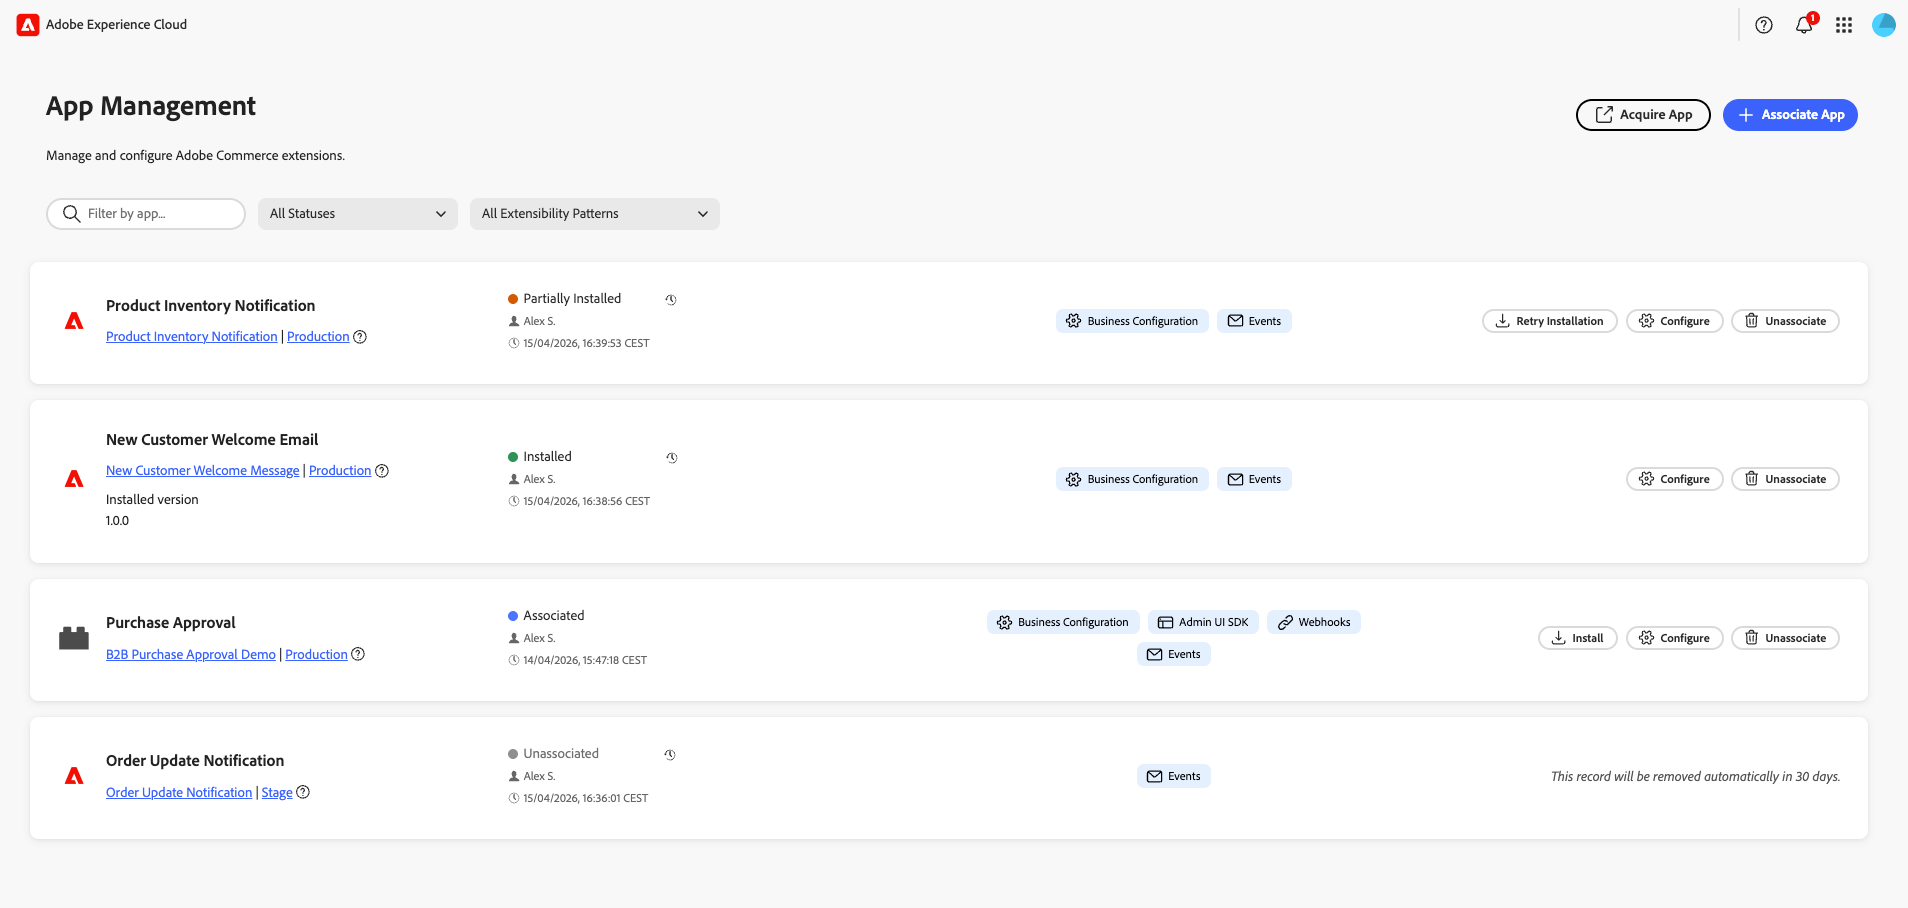
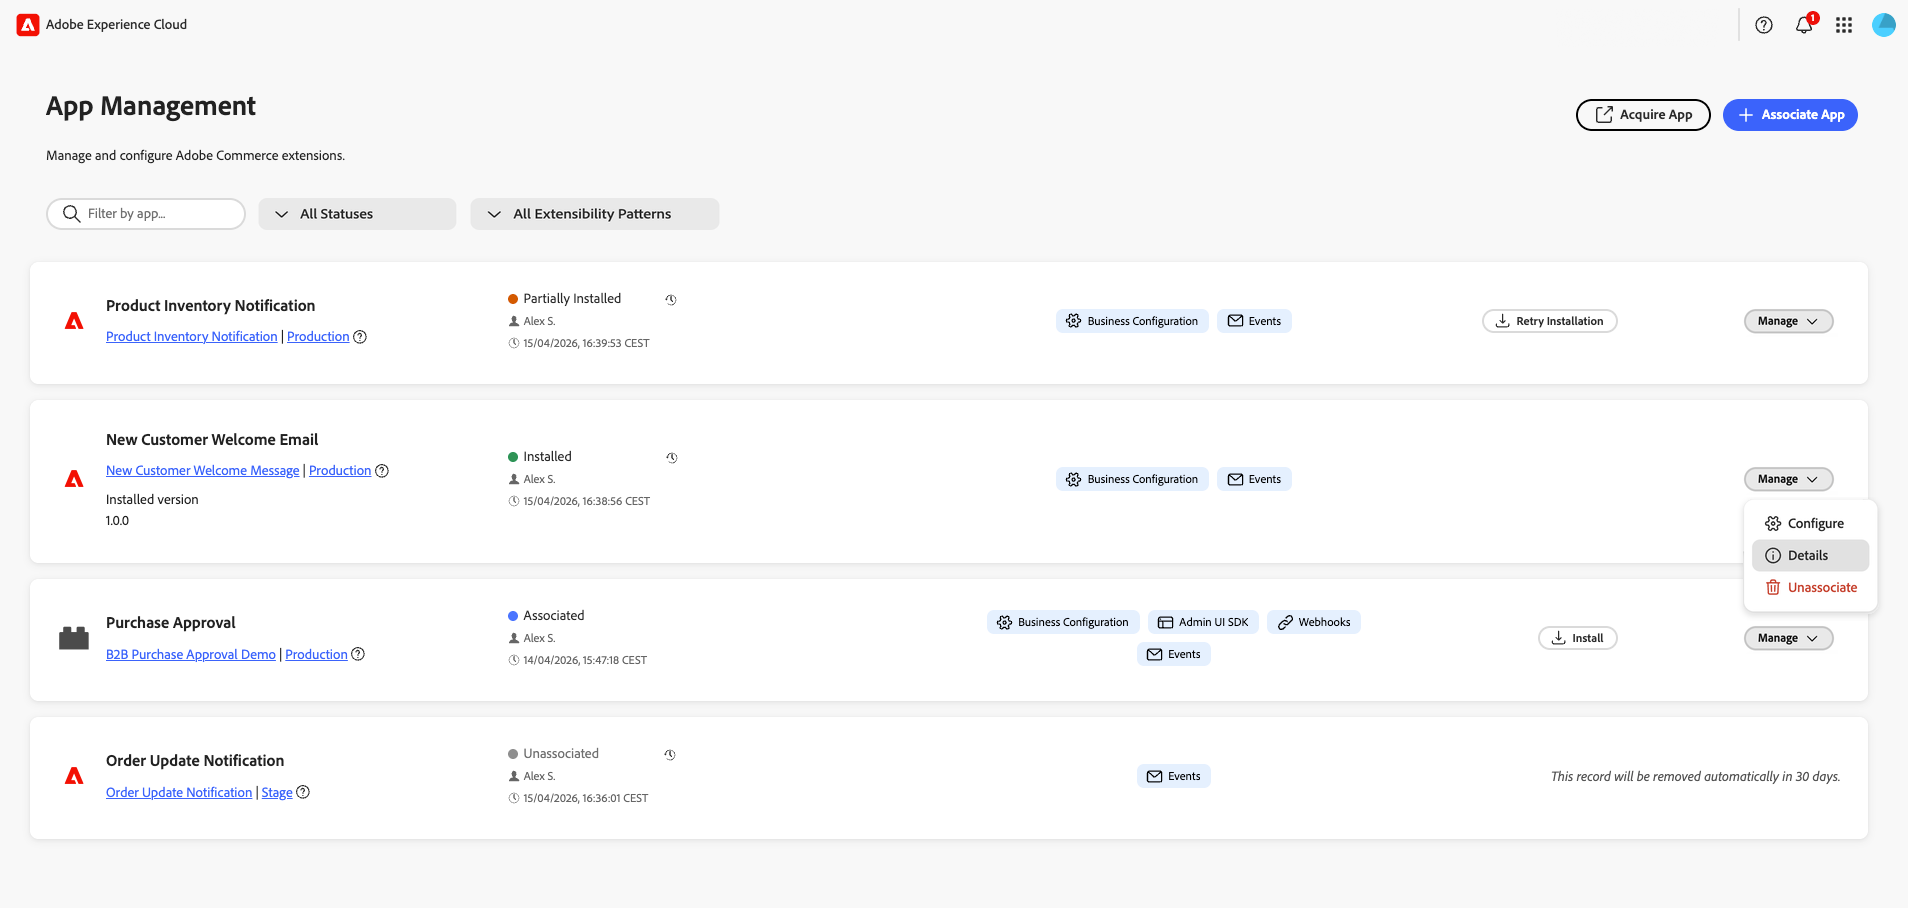
Aligns the merchant-facing App Management documentation with the installation, upgrade, and UI changes documented in AdobeDocs/commerce-extensibility#619. (#855)

diff --git a/help/app-management/manage-app.md b/help/app-management/manage-app.md
@@ -1,6 +1,6 @@
 ---
 title: Manage your app
-description: Associate, configure, and unassociate App Builder applications with your Commerce instance.
+description: Associate, install, configure, upgrade, and unassociate App Builder applications with your Commerce instance.
 feature: App Builder, Extensibility, Integration
 product_v2:
   - id: eadea719-cf89-469b-a6fd-a236a7138047
@@ -22,7 +22,7 @@ role_v2:
 
 # Manage your app
 
-An App Manager associates an App Builder application with their Commerce instance. Configuration forms are rendered dynamically based on the app's schema, so no custom Admin UI development is required. App manager configures settings through forms that Commerce generates automatically.
+Use [!DNL App Management] to associate, install, configure, upgrade, and unassociate App Builder applications with your Commerce instance. Configuration forms are generated from each app's schema, so you can manage settings without custom Admin UI development.
 
 ![App management](assets/app-management-view.png){width="500" zoomable="yes"}
 
@@ -32,22 +32,33 @@ Under **[!UICONTROL Apps]** > **[!UICONTROL App Management]**, each application 
 
 | Control | Description |
 | --- | --- |
-| **Filter by app…** | Search by application name. |
-| **Status** | Limit cards by lifecycle state. **All Statuses** shows every app; other values include **Associated**, **Installed**, **Partially Installed**, and **Unassociated**. The status on each card matches the colored indicator in the list. |
-| **Extensibility patterns** | Limit cards by the capabilities the app uses. **All Extensibility Patterns** shows every app; other values align with the badges on each card, such as **Business Configuration**, **Admin UI SDK**, **Webhooks**, and **Events**. |
+| **[!UICONTROL Filter by app...]** | Search by application name. |
+| **[!UICONTROL Status]** | Limit cards by lifecycle state. **[!UICONTROL All Statuses]** shows every app; other values include **[!UICONTROL Associated]**, **[!UICONTROL Installed]**, **[!UICONTROL Partially Installed]**, and **[!UICONTROL Unassociated]**. The status on each card matches the colored indicator in the list. |
+| **[!UICONTROL Extensibility patterns]** | Limit cards by the capabilities the app uses. **[!UICONTROL All Extensibility Patterns]** shows every app; other values align with the badges on each card, such as **[!UICONTROL Business Configuration]**, **[!UICONTROL Admin UI SDK]**, **[!UICONTROL Webhooks]**, and **[!UICONTROL Events]**. |
 
-Search text and both dropdowns apply together (logical AND). To display the full list again, set **Status** and **Extensibility patterns** back to their **All …** options, and clear the search field.
+The search field and both filters apply together. To display the full list again, clear the search field and select **[!UICONTROL All Statuses]** and **[!UICONTROL All Extensibility Patterns]**.
+
+### Review application details
+
+On the application's card, select **[!UICONTROL Manage]** > **[!UICONTROL Details]** to review its name, description, and version. The dialog provides two tabs:
+
+* **[!UICONTROL Details]** lists the application's business use cases, including events and custom installation steps. Review the labels and descriptions to understand what the application adds to Commerce.
+* **[!UICONTROL App config]** displays the application's configuration as JSON for inspection.
+
+![Details tab showing the application's business use cases](assets/application-details.png){width="600" zoomable="yes"}
+
+![App config tab displaying the application's JSON configuration](assets/app-config.png){width="600" zoomable="yes"}
 
 ## Acquire App
 
-**[!UICONTROL Acquire App]** opens a new browser tab (or a separate browser view) to [Adobe Exchange](https://exchange.adobe.com/experiencecloud){target="_blank"}, where you can discover Commerce-related marketplace listings and add applications to your Adobe IMS organization. Once the app is acquired, approved, and deployed, the app appears in [!DNL App Management] for [association and installation](#associate-an-app).
+**[!UICONTROL Acquire App]** opens a new browser tab (or a separate browser view) to [Adobe Exchange](https://exchange.adobe.com/apps/browse/ec){target="_blank"}, where you can discover Commerce-related marketplace listings and add applications to your Adobe IMS organization. Once the app is acquired, approved, and deployed, the app appears in [!DNL App Management] for [association](#associate-an-app) and [installation](#install-an-app).
 
 ## Prerequisites
 
 Before associating an app, ensure you have the following:
 
 | Requirement | Description |
-|-------------|-------------|
+| --- | --- |
 | **Admin access** | Commerce Admin with [!DNL App Management] permissions |
 | **Deployed app** | App Builder application deployed to your organization and ready to connect |
 | **Organization access** | Access to the Adobe organization where the app is deployed |
@@ -82,13 +93,41 @@ To link your App Builder application to a Commerce instance:
 >
 >If scope sync fails, association still completes. You can sync the scopes manually later from the **[!UICONTROL Manage Scopes]** view in the configuration of the associated app.
 
+## Install an app
+
+Association links an app to your Commerce instance. For apps that include installable components, such as events, webhooks, Admin UI extensions, or custom installation steps, installation applies those components to the instance.
+
+1. Open the installation dialog for the associated app in [!DNL App Management].
+
+1. Review the application's business use cases and the listed installation steps.
+
+1. If **[!UICONTROL Pre Installation Instructions]** are displayed, complete those prerequisites before proceeding.
+
+    ![Installation review with pre-installation instructions and business use cases](assets/installation-review.png){width="600" zoomable="yes"}
+
+1. Click **[!UICONTROL Install]**.
+
+1. Monitor the progress indicators for individual items until installation finishes.
+
+    ![Installation progress for individual items](assets/installation-progress.png){width="600" zoomable="yes"}
+
+    >[!WARNING]
+    >
+    >Keep the page open until installation finishes. Closing or refreshing the page might prevent installation from completing correctly.
+
+1. Verify that **[!UICONTROL Successfully Installed]** is displayed and completed items have check marks.
+
+    ![Successful installation with check marks for completed items](assets/installation-success.png){width="600" zoomable="yes"}
+
+1. Complete any post-installation instructions provided by the app, then [configure its settings](#configure-settings) as needed.
+
 ## Configure settings
 
 After associating an app in the [!DNL App Management] view, configure its settings through the form:
 
-1. Click **[!UICONTROL Configure]** on the associated app.
+1. On the associated app's card, select **[!UICONTROL Manage]** > **[!UICONTROL Configure]**.
 
-1. The form displays the app's configurable settings.
+  The form displays the app's configurable settings.
 
 1. Modify values as needed.
 
@@ -115,10 +154,44 @@ Access **[!UICONTROL Manage Scopes]** from the app details screen to manage scop
 ![Manage scopes](assets/manage-scopes.png){width="500" zoomable="yes"}
 
 | Action | Description |
-|--------|-------------|
+| --- | --- |
 | **[!UICONTROL Add root scope]** | Add a scope that applies only to the app. |
 | **[!UICONTROL Sync Commerce scopes]** | Refresh the list of websites, stores, and store views from Commerce after you add or change them. |
 | **[!UICONTROL Import scopes]** | Import scopes in bulk from a file. |
+
+## Upgrade an app
+
+When your app developer deploys a new version of an installed app, [!DNL App Management] is notified that an upgrade is available. App Builder deployment and an App Management upgrade are separate operations: the upgrade applies planned changes to installed components, such as events, webhooks, and Admin UI extensions.
+
+Ask your app developer to confirm that the app supports upgrades. For SDK prerequisites and migration requirements, see [Upgrade your app](https://developer.adobe.com/commerce/extensibility/app-management/upgrade-app/){target="_blank"} in the developer documentation.
+
+### Review and start an upgrade
+
+In manual mode, which is the default, you review and start the upgrade in [!DNL App Management].
+
+1. Record the installed app version and configuration, and back up application data and external resources with help from your app developer.
+
+1. Navigate to **[!UICONTROL Apps]** > **[!UICONTROL App Management]** and open the available upgrade for the app.
+
+1. Review the planned changes and any warnings. An upgrade can add, modify, or remove components. If a custom installation step is removed, its uninstall script does not run and resources it created are not automatically cleaned up. Confirm any required cleanup with your app developer before proceeding.
+
+1. Start the upgrade and monitor the progress of the listed operations.
+
+1. Review the upgrade result and check for failed operations. If the upgrade fails, follow [Upgrade fails](troubleshooting.md#upgrade-fails) before using **[!UICONTROL Retry Upgrade]**.
+
+In manual mode, planned changes to installed Commerce components are not applied until you start the upgrade. However, deployment can update Runtime action code that the installed app already uses before the upgrade runs.
+
+### Automatic upgrades
+
+Your app developer controls the upgrade mode. Ask your developer to confirm whether the app uses manual or automatic upgrades.
+
+>[!WARNING]
+>
+>Automatic upgrades are experimental and start after deployment without administrator review, including custom installation scripts that can modify external resources. Coordinate with your developer before automatic upgrades are enabled, including when a newly deployed version changes the mode from manual to automatic.
+
+### Business configuration changes
+
+Changes to the app's business configuration schema appear automatically after deployment. They are separate from installation and upgrades and do not trigger an app upgrade.
 
 ## Unassociate an app
 
@@ -126,16 +199,23 @@ Unassociate an app when you no longer need it connected to your Commerce instanc
 
 >[!WARNING]
 >
-> Unassociating removes all configuration values for this instance. This cannot be undone.
+>Unassociating removes all configuration values for this instance. This cannot be undone. Uninstallation can also remove app components and resources through custom uninstall scripts.
+
+Before proceeding, record the installed version and configuration, back up application data, and ask your app developer which resources the app's uninstall scripts remove and which require manual cleanup. Plan for any service interruption and how to restore the app, its settings, and its data. For routine updates, [upgrade the app](#upgrade-an-app) instead of unassociating it.
 
 To remove an app from a Commerce instance:
 
 1. Navigate to **[!UICONTROL Apps]** > **[!UICONTROL App Management]**.
 
-1. Click **[!UICONTROL Unassociate]** on the app.
+1. On the app's card, select **[!UICONTROL Manage]** > **[!UICONTROL Unassociate]**.
+
+1. Review the listed business use cases and components affected by uninstallation, including events and custom installation steps.
+
+    ![Unassociate confirmation listing affected business use cases](assets/unassociate-app.png){width="600" zoomable="yes"}
 
 1. Confirm the action.
 
 ## Related documentation
 
-* [Troubleshooting [!DNL App Management]](troubleshooting.md)—Resolve common issues with app association and configuration.
+* [Troubleshooting [!DNL App Management]](troubleshooting.md) - Resolve common issues with association, installation, configuration, and upgrades.
+* [Upgrade your app](https://developer.adobe.com/commerce/extensibility/app-management/upgrade-app/){target="_blank"} - Developer requirements for upgrade modes, migration scripts, and diagnostics.

diff --git a/help/app-management/troubleshooting.md b/help/app-management/troubleshooting.md
@@ -1,6 +1,6 @@
 ---
 title: Troubleshooting [!DNL App Management]
-description: Resolve common issues with app association and configuration.
+description: Resolve common issues with app association, installation, configuration, and upgrades.
 feature: App Builder, Extensibility, Integration
 product_v2:
   - id: eadea719-cf89-469b-a6fd-a236a7138047
@@ -21,7 +21,18 @@ role_v2:
 ---
 # Troubleshooting [!DNL App Management]
 
-Use the following solutions to resolve common issues with app association and configuration.
+Use the following solutions to resolve common issues with app association, installation, configuration, and upgrades.
+
+## Before contacting your app provider
+
+Follow the steps for your issue below. If you need help from your app developer or provider, collect the following information:
+
+* App name and installed version, if available from **[!UICONTROL Manage]** > **[!UICONTROL Details]** on the app's card.
+* Affected Commerce instance and Adobe organization.
+* Operation that failed, such as installation or upgrade, and the failed step.
+* Displayed error message and a screenshot of the failure, if available.
+* Approximate time of the failure, including the time zone.
+* Any retry attempts and their results.
 
 ## App is not displayed
 
@@ -55,6 +66,40 @@ If configuration changes do not save, try the following:
 
 1. Try refreshing the page and saving again.
 
-If the issue persists, check your browser console for errors or contact your app developer. 
+If the issue persists, check your browser console for errors or contact your app developer.
+
+## Installation fails
+
+Keep the installation page open without refreshing until installation finishes. Closing or refreshing it might prevent installation from completing correctly.
+
+If installation reports a failure:
+
+1. Note the failed item and any displayed error message.
+
+1. Check that you completed the app's pre-installation instructions.
+
+1. Ask your app developer to inspect the failed step and correct the cause before attempting installation again.
+
+A failed installation can leave some changes applied. When installation is retried, custom steps recorded as successful are skipped; failed or interrupted steps can run again. Ask your developer to check for resources created by partial execution.
+
+## Upgrade fails
+
+A failed upgrade can leave some operations applied. Do not unassociate and reinstall the app as a routine recovery step, because unassociation removes configuration and can run destructive cleanup scripts.
+
+1. Identify the failed step and record any displayed error message.
+
+1. Ask your app developer to inspect the logs, check for changes already made to Commerce or external resources, and correct the cause.
+
+1. In [!DNL App Management], select **[!UICONTROL Retry Upgrade]**. This action is available for both manual and automatic upgrade modes.
+
+Each retry creates a new plan from the current state. Custom installation steps recorded as successful are skipped; failed or interrupted steps can run again. In automatic mode, deploying the app again also triggers another upgrade attempt.
+
+If repeated attempts fail, ask your app developer to retain the run or attempt IDs and any execution activation ID for troubleshooting. For status commands, attempt history, and Runtime logs, see [Retry a failed upgrade](https://developer.adobe.com/commerce/extensibility/app-management/upgrade-app/#retry-a-failed-upgrade){target="_blank"} in the developer documentation.
+
+## Resources remain after an upgrade
+
+Removing a custom installation step from an app's configuration does not run its uninstall script or remove resources it created. The upgrade plan warns that no script runs for the removed step, and the step does not appear on the progress screen or in app details after the upgrade.
+
+Ask your app developer to confirm whether the resources are still required and provide a cleanup migration when needed. See [Upgrade an app](manage-app.md#upgrade-an-app) for the administrator workflow.
 
 For technical troubleshooting, see [Commerce Extensibility [!DNL App Management]](https://developer.adobe.com/commerce/extensibility/app-management/){target="_blank"} for more information.

diff --git a/help/app-management/install.md b/help/app-management/install.md
@@ -32,7 +32,7 @@ After meeting the following requirements, select the corresponding tab for your 
 Before associating an app, ensure you have the following:
 
 | Requirement | Description |
-|-------------|-------------|
+| --- | --- |
 | **Admin access** | Commerce Admin with [!DNL App Management] permissions |
 | **Deployed app** | App Builder application deployed to your organization and ready to connect |
 | **Organization access** | Access to the Adobe organization where the app is deployed |
@@ -72,19 +72,19 @@ Before associating an app, ensure you have the following:
 
 1. Navigate to **[!UICONTROL Apps]** > **[!UICONTROL App Management]**.
 
-The [!DNL App Management] view displays. Here, you can associate, configure, and manage App Builder applications. For search, filters, and the **[!UICONTROL Acquire App]** action on that screen, see [Find an application in the Admin](manage-app.md#find-an-application-in-the-admin) in [Manage your app](manage-app.md).
+The [!DNL App Management] view displays. Here, you can associate, install, configure, upgrade, and manage App Builder applications. For search, filters, and the **[!UICONTROL Acquire App]** action on that screen, see [Find an application in the Admin](manage-app.md#find-an-application-in-the-admin) in [Manage your app](manage-app.md).
 
 ## Installing App Builder apps
 
 If you need to install an App Builder app from Adobe Exchange (for example, a pre-built integration or marketplace app), see [Install App Builder apps from Adobe Exchange](https://experienceleague.adobe.com/en/docs/commerce-learn/tutorials/extensibility/adobe-developer-app-builder/install-app-builder-app){target="_blank"} for step-by-step instructions.
 
-After an app is installed and deployed, use [!DNL App Management] to [associate it with your Commerce instance](manage-app.md#associate-an-app) and configure its settings.
+Acquiring and deploying an App Builder app makes it available to your organization. To use it with a Commerce instance, [associate the app](manage-app.md#associate-an-app), [install its components](manage-app.md#install-an-app) when applicable, and [configure its settings](manage-app.md#configure-settings) in [!DNL App Management].
 
 ## Commerce webhooks and apps
 
 Some App Builder applications use [Adobe Commerce webhooks](https://developer.adobe.com/commerce/extensibility/webhooks/) so that Commerce can call your app over HTTP when certain events occur (for example, after a product is saved). Webhook endpoints and subscription logic are defined by the **app developer** when the application is built and deployed; store administrators do not configure webhooks separately in App Management.
 
-After you [associate the app](https://experienceleague.adobe.com/en/docs/commerce/app-management/manage-app/manage-app) with your Commerce instance and complete any setup instructions from the app, webhook behavior follows the app’s implementation.
+After you [associate the app](manage-app.md#associate-an-app) with your Commerce instance, [install its components](manage-app.md#install-an-app), and complete any setup instructions from the app, webhook behavior follows the app's implementation. App installation and upgrades apply the webhook subscriptions declared by the developer; you do not need to create those subscriptions separately.
 
 If [!DNL App Management] cannot trigger the app’s validation endpoint (for example, the URL is unreachable or the response does not meet requirements), you may see an error similar to the following in the [!DNL App Management] dashboard:
 

diff --git a/help/app-management/overview.md b/help/app-management/overview.md
@@ -33,7 +33,7 @@ Together, these capabilities create a scalable extensibility model that empowers
 
 ## What [!DNL App Management] delivers
 
-* **One place for all your apps**. Associate, configure, and manage apps from **[!UICONTROL Apps]** > **[!UICONTROL App Management]**. [Search, filter, and acquire apps](manage-app.md) from the same view.
+* **One place for all your apps**. Associate, install, configure, upgrade, and manage apps from **[!UICONTROL Apps]** > **[!UICONTROL App Management]**. [Search, filter, and acquire apps](manage-app.md) from the same view.
 * **Settings that match your business**. Apply different configurations per website, store, or store view for multi-region or multi-brand setups.
 * **Automatic store sync**. Websites, stores, and store views from Commerce are imported when you associate an app.
 * **Native Admin experience**. Work with apps from Adobe Exchange or custom deployments without leaving Commerce.
@@ -41,22 +41,24 @@ Together, these capabilities create a scalable extensibility model that empowers
 ## Who uses [!DNL App Management]?
 
 | Role | Use case |
-|------|----------|
-| **App managers** | Associate apps, configure settings, and manage apps across your Commerce instance. |
+| --- | --- |
+| **App managers** | Review app details, associate and install apps, configure settings, and manage upgrades across your Commerce instance. |
 | **Commerce administrators** | Oversee app configurations and permissions across the organization. |
 | **Technical architects** | Ensure apps are correctly configured for multi-store or multi-region deployments. |
 
 ## What you can do
 
 * **Associate an app**. Link an App Builder application to your Commerce instance by selecting the project and workspace.
+* **Review and install an app**. Inspect the app's business use cases and configuration, complete pre-installation instructions, and monitor installation progress.
 * **Configure settings**. Adjust app settings through the auto-generated form; override values per store or region when needed.
 * **Manage scopes**. Keep your store hierarchy in sync with your apps and apply settings at the right level.
-* **Unassociate an app**. Remove an app when retiring an integration or cleaning up test configurations.
+* **Upgrade an app**. Review and start upgrades when your developer deploys a new version. Developers can also enable experimental automatic upgrades.
+* **Unassociate an app**. Review affected components and cleanup requirements before removing an app when retiring an integration or cleaning up test configurations.
 
 ## Next steps
 
 * [Install](install.md). Ensure prerequisites are met and access [!DNL App Management].
-* [Manage your app](manage-app.md). Associate, configure, and unassociate apps.
+* [Manage your app](manage-app.md). Review, associate, install, configure, upgrade, and unassociate apps.
 
 ## For developers
 
